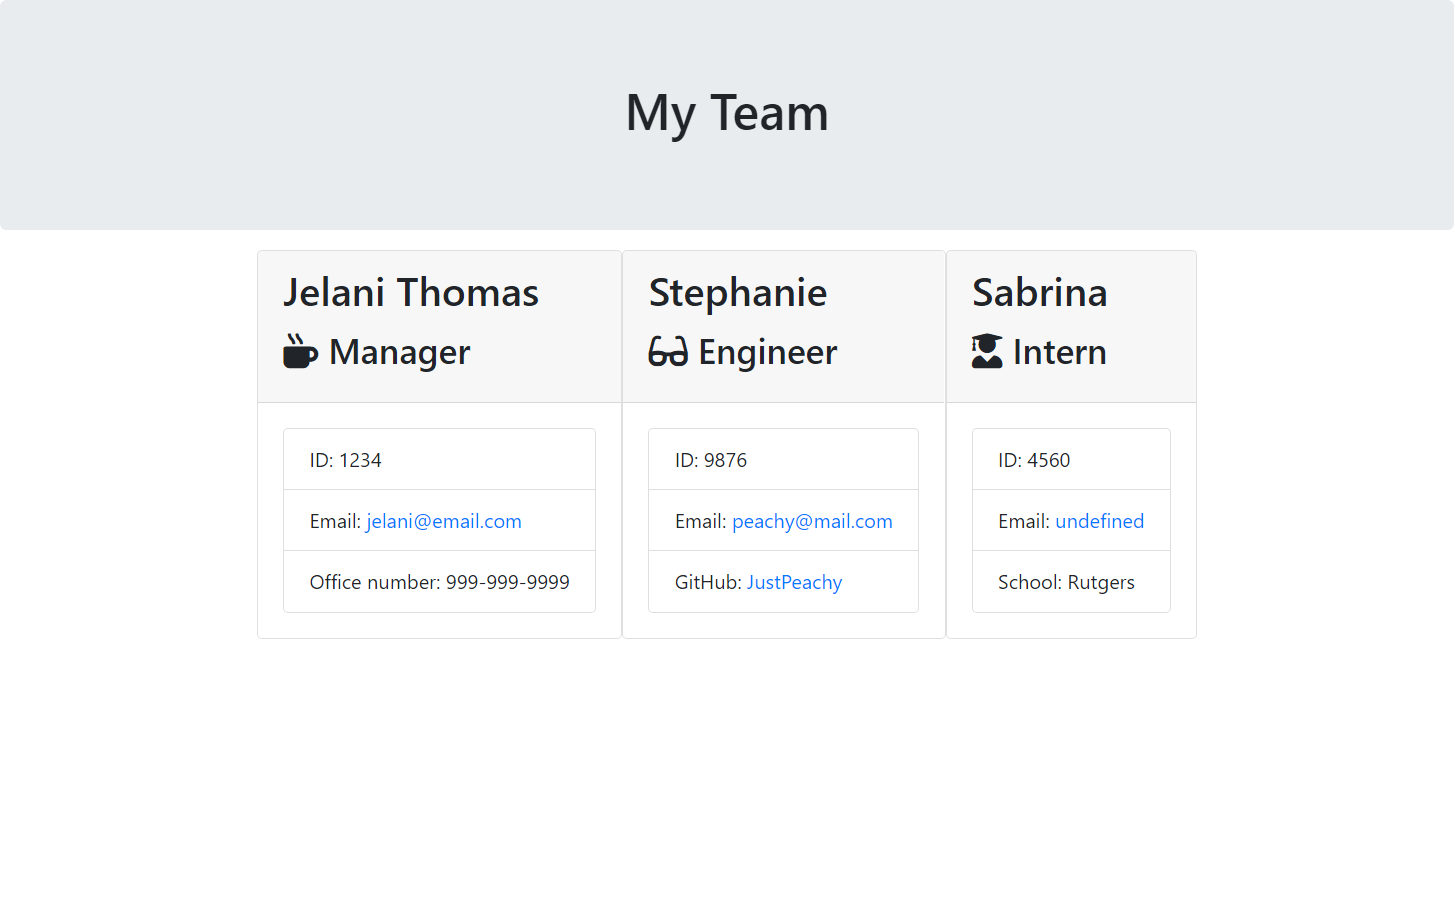
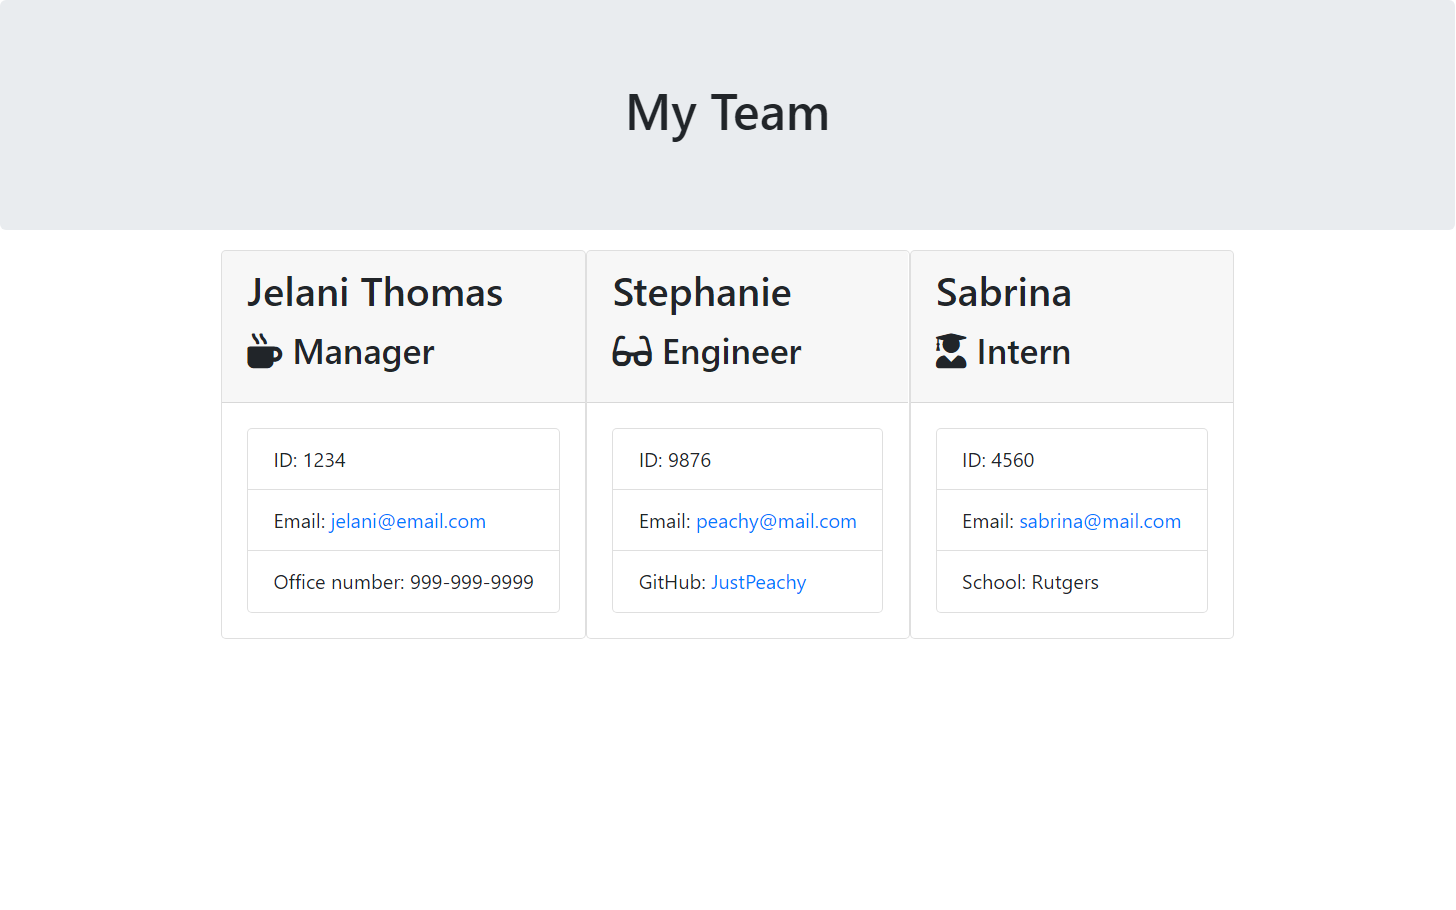
full demo video added to README. minor spelling and punctuation errors fixed

diff --git a/output/team.html b/output/team.html
@@ -25,13 +25,39 @@
             <div class="team-area col-12 d-flex justify-content-center">
                 <div class="card employee-card">
     <div class="card-header">
-        <h2 class="card-title">Jelani </h2>
+        <h2 class="card-title">Jelani Thomas</h2>
+        <h3 class="card-title"><i class="fas fa-mug-hot mr-2"></i>Manager</h3>
+    </div>
+    <div class="card-body">
+        <ul class="list-group">
+            <li class="list-group-item">ID: 1234</li>
+            <li class="list-group-item">Email: <a href="mailto:jelani@mail.com">jelani@mail.com</a></li>
+            <li class="list-group-item">Office number: 999-999-9999</li>
+        </ul>
+    </div>
+</div>
+<div class="card employee-card">
+    <div class="card-header">
+        <h2 class="card-title">Stephanie</h2>
+        <h3 class="card-title"><i class="fas fa-glasses mr-2"></i>Engineer</h3>
+    </div>
+    <div class="card-body">
+        <ul class="list-group">
+            <li class="list-group-item">ID: 9876</li>
+            <li class="list-group-item">Email: <a href="mailto:peachy@mail.com">peachy@mail.com</a></li>
+            <li class="list-group-item">GitHub: <a href="https://github.com/JustPeachy" target="_blank" rel="noopener noreferrer">JustPeachy</a></li>
+        </ul>
+    </div>
+</div>
+<div class="card employee-card">
+    <div class="card-header">
+        <h2 class="card-title">Sabrina</h2>
         <h3 class="card-title"><i class="fas fa-user-graduate mr-2"></i>Intern</h3>
     </div>
     <div class="card-body">
         <ul class="list-group">
-            <li class="list-group-item">ID: 12345</li>
-            <li class="list-group-item">Email: <a href="mailto:jelani@email.com">jelani@email.com</a></li>
+            <li class="list-group-item">ID: 4560</li>
+            <li class="list-group-item">Email: <a href="mailto:sabrina@mail.com">sabrina@mail.com</a></li>
             <li class="list-group-item">School: Rutgers</li>
         </ul>
     </div>

diff --git a/app.js b/app.js
@@ -184,7 +184,7 @@ function menu() {
         const intern = new Intern(
           response.internName,
           response.internId,
-          response.internEmail,
+          response.internsEmail,
           response.internSchool
         );
         members.push(intern);

diff --git a/README.md b/README.md
@@ -16,7 +16,7 @@
 
   ## Installation
 
-  To start using this code follow these instructions
+  To start this code follow these instructions:
   ```
   - npm i
   ```
@@ -27,7 +27,7 @@
 <hr>
 
   ## Usage
-  In your terminal run this code to start the CLI
+  In your terminal run this code to start the CLI:
   ```
   node app.js
   ```
@@ -39,13 +39,15 @@
 
   > Once the prompts are complete the generated HTML will look like below
   
-  ![ReultsImage](images\TeamHTML.png)
+  ![ResultsImage](images\TeamHTML.png)
+
+  <hr>
 
   ## Credit
   Jelani Thomas
 
   ## Tests
-  To test the code for any errors run this in the command line. Make sure the dependcies are downloaded which should have been done in the installation step. 
+  To test the code for any errors run this in the command line. Make sure the dependcies are downloaded, which should have been done in the installation step. 
   ```
   npm run test
   ```
@@ -55,14 +57,18 @@
   <hr>
 
   ## GitHub
-  GeloneJT
+  [GeloneJT](https://github.com/GeloneJT)
 
   ## Email
-  jelani13@icloud,com
+  jelani13@icloud.com
 
   ## Questions
-  Any further questions needed in reagrds to this application or any other repo feel free to contact me via my email or GitHub given above 
+
+  The link [here](https://youtu.be/SZXD6Y_Am1o) shows the full demo from test run, CLI  inputs, to what the HTML will look like after render.
+  Any further questions needed in regards to this application or any other repo feel free to contact me via my email or GitHub given above 
 
   ## License
-  No License applied
+  [![License: MIT](https://img.shields.io/badge/License-MIT-yellow.svg)](https://opensource.org/licenses/MIT)
+
+
   <hr>
